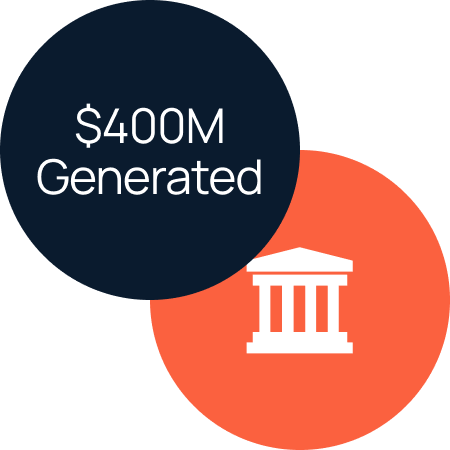
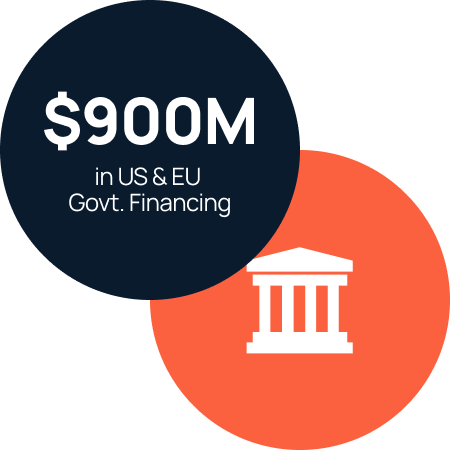
changed copy

Changed region(s): [[0.0622, 0.1867, 0.5911, 0.4978]]

diff --git a/src/components/Team.js b/src/components/Team.js
@@ -9,19 +9,27 @@ const Team = props => (
         <div className="CoreTeam">
             <div className="TeamIntro">
                 <h4>Meet Your Partners at Leftfield</h4>
-                <h2>We have helped companies across markets grow. And would love to do that for you.</h2>
             </div>
             <Bio
                 name="Mohan Ramani"
                 position="CEO"
-                text="Mohan is an experienced entrepreneur who has built and managed companies in the technology, manufacturing, government and financial services sectors. He has extensive international experience in sales and business development, P&L management, strategy development, and execution with both start-up and mature organizations in the United States, Europe and India."
+                text="Mohan is an experienced entrepreneur who has built and managed companies in the technology, manufacturing, government and financial services sectors. He has extensive international experience in sales and business development, P&L management, strategy development, and execution with both start-up and mature organizations in the United States, Europe and India. Over the last decade, he has helped deliver significant enterprise value for clients by delivering significant business development opportunities with large enterprise customers, establishing effective distribution channels in new markets, and expanding their market share in their existing markets. As Founder and Managing Director at Leftfield Services, he brings all of his experience, knowledge and relationships to bear to achieve our clients’ objectives.
+                "
                 image={require('../images/mohan-image.jpeg')}
                 linkedin="https://www.linkedin.com/in/mohan-ramani-4441b8/" />
             <Bio
                 name="Marcus Matthews"
                 position="Senior Director – Europe"
-                text="Marcus is an experienced cultivator of strategic opportunities and commercial relationships. Marcus is a qualified governance and compliance professional, and certified member of the Institute of Chartered Secretaries and Administrators (ICSA). Marcus' career began in the financial services industry working for a Maltese based commercial insurance brokerage that specialized in the international placement of bespoke coverage for high-value capital assets."
-                image={require('../images/marcus-image.jpg')} />
+                text="As the Senior Director for Europe, Marcus works with clients on identifying and developing opportunities at the EU level and in select member states.  An experienced government relations professional, he is highly skilled at developing strategic opportunities and commercial relationships. He has advocated for clients with  a number of state agencies in Healthcare, Telecommunications and other sectors. Most recently, he developed and established the Regional Internet Service Providers Association (RISPA) to advocate for the interests of 40 Irish broadband companies. As managing director of RISPA, Marcus assembled an industry debt finance programme, successfully developing a €400mn alternative proposal to the €3bn National Broadband Plan, for which he organized and managed a public affairs campaign as head of delegation including representations in the media and Parliament. He has also assisted several energy technology companies to both navigate the EU subsidy landscape and secure blended investments for their commercial development activities
+ 
+                Marcus is a qualified governance and compliance professional, and a certified member of the Institute of Chartered Secretaries and Administrators (ICSA). He began his career in the financial services industry, specializing in the placement of bespoke insurance coverage for high-value capital assets, before moving into business consulting and eventually government relations."
+                image={require('../images/marcus-image.jpg')}
+                linkedin="https://www.linkedin.com/in/marcus-matthews/" />
+            <Bio
+                name="TBD"
+                position="Senior Director - North America"
+                text="LFS will soon announce our Senior Director, North America. He is already actively engaged in assisting our clients in engaging with Federal agencies and in sourcing relevant opportunities in a number of states in the East Coast and the Midwest.  Prior to joining the LFS team, he founded and built a highly successful government affairs consulting firm that supported a broad range of companies with their government contracting and public fund raising efforts. Over 15 years, they delivered significant results for their clients at the Federal level, in 21 states, and dozens of cities and counties. That entity was sold to a much larger international firm. He started as a staff member on the Hill, rapidly rising to become a senior member of staff supporting one of the highest ranked senators in Majority Leadership at that time.  In that role, he worked with hundreds of community & economic development groups, municipal & state leaders, and trade associations. This broad and deep network of long-standing relationships has allowed him to work effectively and successfully with 3 different presidential administrations over the last 2 decades."
+                image={require('../images/tbd.png')} />
             <div className="AdvisorsIntro">
                 <h4>Our Advisory Team</h4>
             </div>

diff --git a/src/components/Services.js b/src/components/Services.js
@@ -12,11 +12,11 @@ const Services = props => (
         </div>
         <GrowthCard
         title="Business Development"
-        text="We are focused on all of those activities that help a business grow revenues, expand its customer base, increase its distribution, and enter new markets."
+        text="We are focused on all of those activities that help a business grow revenues, expand its customer base, increase its distribution, and enter new markets. We do this by leveraging our senior enterprise relationships developed over time and by …."
         image={require('../images/growth-data-graphic.png')} />
         <GovtCard
         title="Government Relations"
-        text="An advisory service that aims to help our clients engage more meaningfully and profitably with all levels of Government, across markets. An important aspect of this service is to help them fully understand the implications of existing or new policies and regulations that could have a bearing on their business and impact their growth."
+        text="A service that helps our clients engage more meaningfully and profitably with all levels of government in the US and EU. We help you win government contracts and secure non-dilutive government financing."
         image={require('../images/govt-data-graphic.png')} />
         {/* 
         <StatefulGrowth

diff --git a/src/components/IntroCard.js b/src/components/IntroCard.js
@@ -6,8 +6,8 @@ const IntroCard = props => (
         <div class="IntroContainer">
             <div className="IntroInfo">
                 <h1>Leftfield is a growth company.</h1>
-                <h2>Which means, we exist to help you grow.</h2>
-                <p>We are a bunch of battle-tested veterans who have helped business leaders across United States, Europe and Asia to not just scale up their revenues, market presence or market share, but to scale up their ambition.</p>
+                <h2>We exist to help you scale.</h2>
+                <p>We are battle-tested consultants who have helped business leaders across United States, Europe and Asia to not just grow their revenues, market presence or market share, but to scale up their ambition.</p>
             </div>
             <div className="IntroImage">
                 <img width="300" src={props.image} />

diff --git a/src/components/Clients.js b/src/components/Clients.js
@@ -4,8 +4,7 @@ import './Clients.css';
 const Clients = props => (
     <div className="ClientsContainer">
         <div className="ClientsIntro">
-            <h4>The Clients who Trust Us</h4>
-            <h2>Our clients include Fortune 500 and 5000 firms, trade associations and advocacy groups, colleges and universities and healthcare organizations.</h2>
+            <h4>Our Clients</h4>
         </div>
         <div className="Clients">
             <img width="200px"src={require('../images/client-logo.png')} />

diff --git a/src/components/Contact.js b/src/components/Contact.js
@@ -13,10 +13,6 @@ const Contact = props => (
                 <h4>Email Us</h4>
                 <p>mohan@leftfield-services.com</p>
             </div>
-            <div className="Phone">
-                <h4>Call Us</h4>
-                <p>+31 (0) 20 890 2143 </p>
-            </div>
         </div>
     </div>
 )

diff --git a/src/components/Bio.css b/src/components/Bio.css
@@ -32,8 +32,8 @@ Bio h3 {
 
 .Bio p {
     font-family: 'IBM Plex Serif', serif;
-    font-size: 1.5rem;
-    font-weight: 300;
+    font-size: 1.2rem;
+    font-weight: 400;
     margin: 20px 0 0 0;
     
 }

diff --git a/src/components/Services.css b/src/components/Services.css
@@ -15,7 +15,7 @@
 }
 
 .ServicesContainer h4 {
-    font-size: 1.5rem;
+    font-size: 2rem;
     color: #0A1B2E;
 }
 

diff --git a/src/components/Clients.css b/src/components/Clients.css
@@ -15,7 +15,7 @@
 }
 
 .ClientsContainer h4 {
-    font-size: 1.5rem;
+    font-size: 2rem;
     color: #0A1B2E;
 }
 

diff --git a/src/components/Team.css b/src/components/Team.css
@@ -15,7 +15,7 @@
 }
 
 .CoreTeam h4 {
-    font-size: 1.5rem;
+    font-size: 2rem;
     color: #EFF5FF;
 }
 
